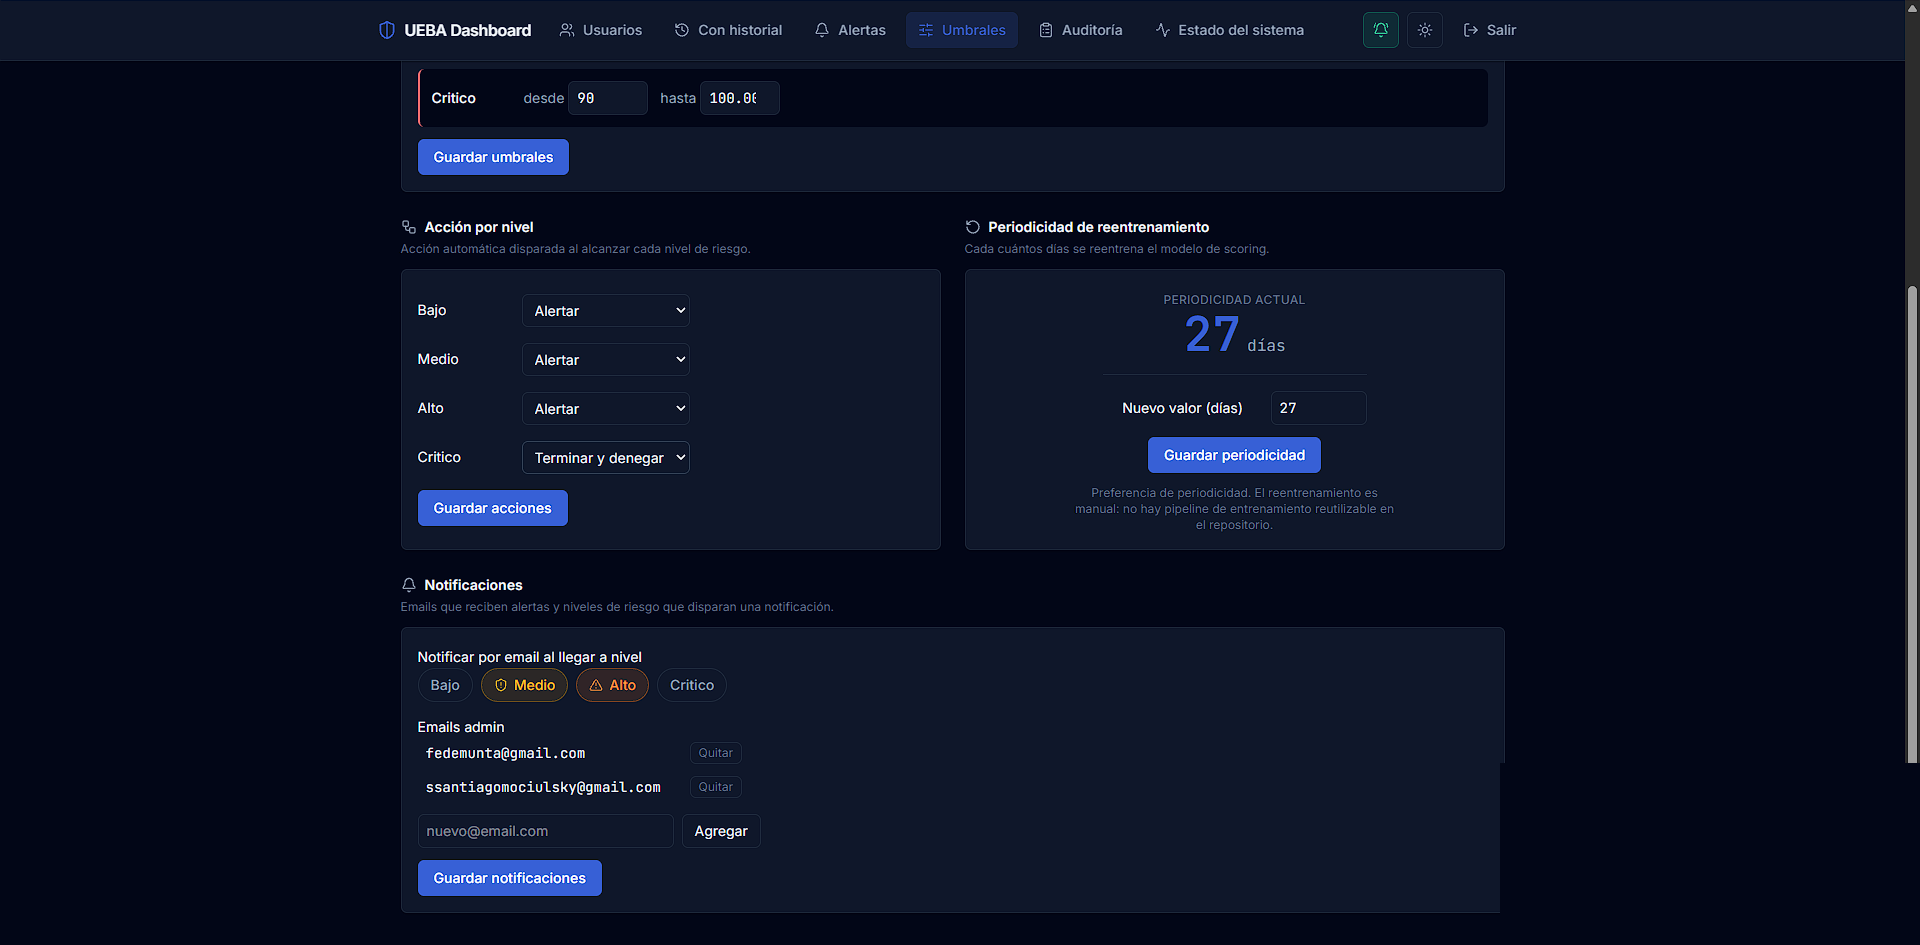
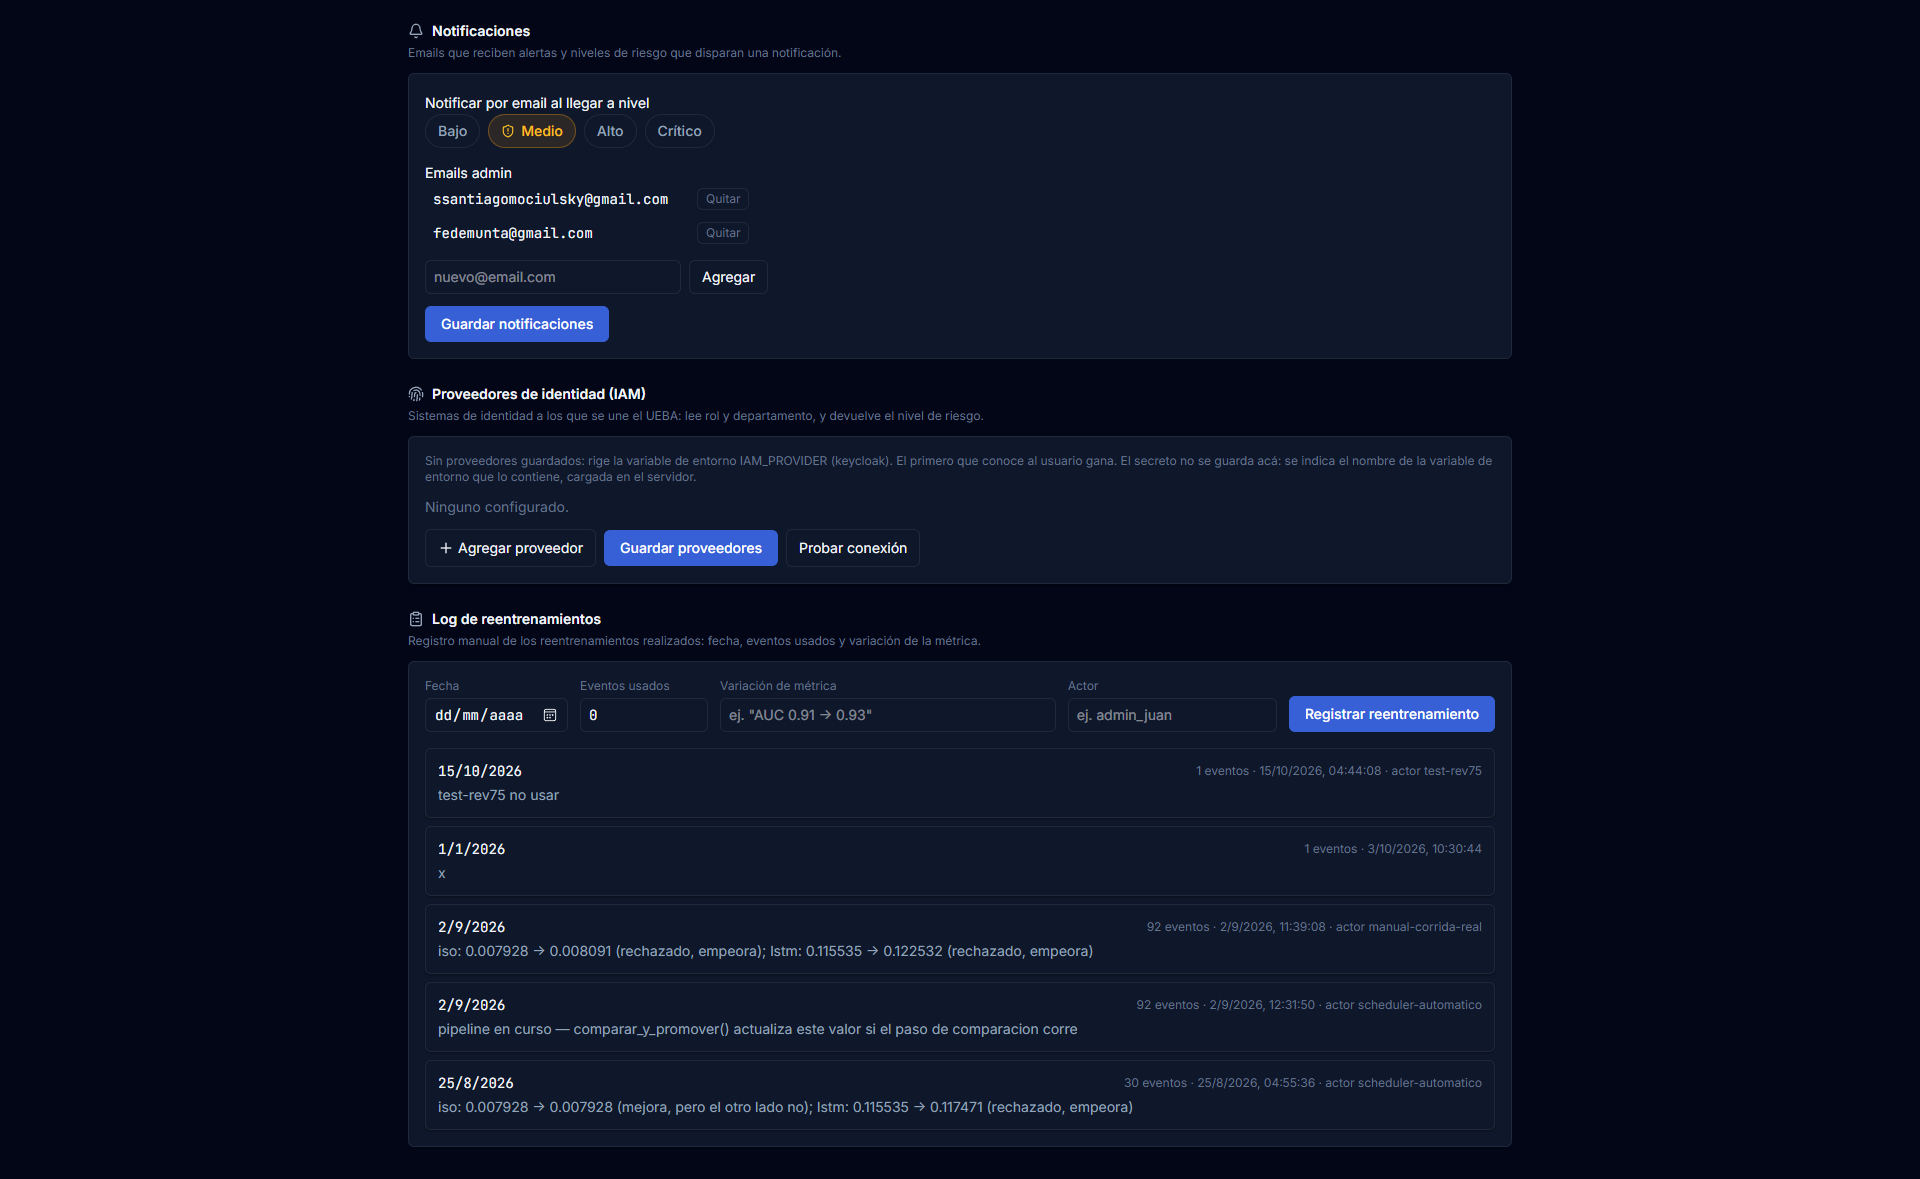
docs: recaptura de pantallas del dashboard UMBRAL y ajuste del texto

diff --git a/chapters/e50_diseno_ux.tex b/chapters/e50_diseno_ux.tex
@@ -18,7 +18,7 @@ Cada \emph{wireframe} de este documento representa la estructura de esa pantalla
 \end{itemize}
 
 \section{Arquitectura de navegación}
-Todas las pantallas comparten una barra superior fija con: el nombre del sistema, 6 accesos directos a las secciones (Usuarios, Con historial, Alertas, Umbrales, Auditoría, Estado del sistema), un indicador de alertas activas y un selector de tema claro/oscuro. Esta estructura común reduce la carga cognitiva del administrador al moverse entre las distintas vistas operativas: es la misma decisión de \emph{layout} en las 6 pantallas, solo cambia el contenido central.
+Todas las pantallas comparten una barra superior fija con: el nombre del sistema, 6 accesos directos a las secciones (Usuarios, Con historial, Alertas, Umbrales, Auditoría, Estado del sistema), el logotipo de UMBRAL, un indicador de alertas activas, un selector de tema claro/oscuro y el botón para cerrar sesión. Esta estructura común reduce la carga cognitiva del administrador al moverse entre las distintas vistas operativas: es la misma decisión de \emph{layout} en las 6 pantallas, solo cambia el contenido central.
 
 \section{Catálogo de pantallas}
 Para cada pantalla se presenta el \emph{wireframe} estructural de baja fidelidad, la captura real del \emph{frontend} implementado, y una tabla de justificación de diseño que ata cada decisión visual a un requerimiento funcional, no funcional o caso de uso concreto. Las tablas~\ref{tab:mockup-login} a~\ref{tab:mockup-historial} contienen esas justificaciones.
@@ -143,7 +143,7 @@ La tabla de Eventos recientes está acotada a 20 filas (RF-09) y se aclara que e
 \FloatBarrier
 
 \subsection{Alertas}
-Subconjunto operativo del listado de usuarios: solo los que están en nivel alto o crítico en este momento, pensado para uso durante un incidente activo (no requiere filtrar manualmente el listado completo). El texto bajo el título explicita una limitación de diseño consciente y comunicada al usuario del sistema: no hay historial persistente de alertas ni notificaciones \emph{push}: ``reconocer'' solo oculta el resaltado durante la sesión del navegador. La captura muestra el estado vacío, que es el estado normal del sistema en operación sana. La figura~\ref{fig:mockup-alertas-wireframe} presenta el \emph{wireframe} de la pantalla y la figura~\ref{fig:mockup-alertas-real}, la pantalla implementada.
+Subconjunto operativo del listado de usuarios: solo los que están en nivel alto o crítico en este momento, pensado para uso durante un incidente activo (no requiere filtrar manualmente el listado completo). El texto bajo el título explicita una limitación de diseño consciente y comunicada al usuario del sistema: no hay historial persistente de alertas ni notificaciones \emph{push}: ``reconocer'' solo oculta el resaltado durante la sesión del navegador. La captura muestra la lista con usuarios en nivel alto y crítico, cada uno con su botón de reconocimiento; cuando no hay ninguno, la pantalla pasa a un estado vacío explícito (``Sin alertas activas''), que es el estado normal del sistema en operación sana. La figura~\ref{fig:mockup-alertas-wireframe} presenta el \emph{wireframe} de la pantalla y la figura~\ref{fig:mockup-alertas-real}, la pantalla implementada.
 
 \begin{figure}[t]
 	\centering
@@ -153,7 +153,7 @@ Subconjunto operativo del listado de usuarios: solo los que están en nivel alto
 	{\small Fuente: elaboración propia.\par}
 	\bigskip
 	\includegraphics[width=0.8\textwidth]{images/mockups/mockup-alertas-real.png}
-	\caption{Pantalla real: \texttt{/alertas} (estado vacío)}
+	\caption{Pantalla real: \texttt{/alertas} (con alertas activas)}
 	\label{fig:mockup-alertas-real}
 	{\small Fuente: elaboración propia, captura del sistema.\par}
 \end{figure}
@@ -178,7 +178,7 @@ Subconjunto operativo del listado de usuarios: solo los que están en nivel alto
 \FloatBarrier
 
 \subsection{Configuración de umbrales}
-Es la pantalla de mayor densidad funcional del \emph{dashboard}: concentra los 4 sub-formularios que dan cumplimiento a CU-02 completo (RF-12 a RF-15 y RF-17; la periodicidad corresponde a RF-18). Se organiza en secciones apiladas con jerarquía clara (Umbrales por nivel arriba, luego una grilla de dos columnas con Acción por nivel y Periodicidad de reentrenamiento, y Notificaciones al final), cada una con su propio botón de guardado independiente, lo que evita que un cambio de umbral dispare accidentalmente un guardado de notificaciones.
+Es la pantalla de mayor densidad funcional del \emph{dashboard}: concentra los sub-formularios que dan cumplimiento a CU-02 completo (RF-12 a RF-15 y RF-17; la periodicidad corresponde a RF-18). Se organiza en secciones apiladas con jerarquía clara (Umbrales por nivel arriba, luego una grilla de tres columnas con Acción por nivel, Periodicidad de reentrenamiento y Umbral de aprendizaje, y a continuación Notificaciones, Proveedores de identidad (IAM) y el Log de reentrenamientos), cada una con su propio botón de guardado independiente, lo que evita que un cambio de umbral dispare accidentalmente un guardado de notificaciones.
 
 El bloque de Notificaciones usa \emph{chips} tipo \emph{toggle} (uno por nivel de riesgo) en vez de \emph{checkboxes} sueltos: permite seleccionar varios niveles a la vez con el mismo patrón visual que los \emph{badges} de riesgo del resto del sistema, en lugar de un control de formulario genérico sin relación visual con el dominio. La figura~\ref{fig:mockup-umbrales-wireframe} presenta el \emph{wireframe} de la pantalla y las figuras~\ref{fig:mockup-umbrales-real-1} y~\ref{fig:mockup-umbrales-real-2}, la pantalla implementada en su parte superior y luego de desplazarse.
 
@@ -195,7 +195,7 @@ El bloque de Notificaciones usa \emph{chips} tipo \emph{toggle} (uno por nivel d
 	{\small Fuente: elaboración propia, captura del sistema.\par}
 	\bigskip
 	\includegraphics[width=0.68\textwidth]{images/mockups/mockup-umbrales-real-2.png}
-	\caption{Pantalla real: \texttt{/umbrales} (scroll: acciones, periodicidad y notificaciones)}
+	\caption{Pantalla real: \texttt{/umbrales} (scroll: notificaciones, proveedores de identidad y log de reentrenamientos)}
 	\label{fig:mockup-umbrales-real-2}
 	{\small Fuente: elaboración propia, captura del sistema.\par}
 \end{figure}
@@ -292,7 +292,7 @@ Pantalla de verificación técnica: expone el resultado de \texttt{/health} de l
 \FloatBarrier
 
 \subsection{Con historial}
-Filtra el listado de usuarios a los que ya tienen al menos un día cerrado en \texttt{historial\_scores} (Postgres), como acceso rápido a usuarios con evolución temporal registrada. Es una vista deliberadamente angosta (una sola columna, UID) frente al listado general de Usuarios: no repite \emph{score}/nivel/acción porque esos datos ya cambiaron desde que se cerró ese día: mostrarlos aquí induciría a leerlos como estado actual cuando son historial. El texto bajo el título aclara explícitamente que esta lista (Postgres) puede diferir del listado operacional (Redis): un \texttt{uid} reseteado en Redis conserva igual su historial aquí, y esa distinción se declara en la propia pantalla en lugar de dejarla implícita. La figura~\ref{fig:mockup-historial-wireframe} presenta el \emph{wireframe} de la pantalla y la figura~\ref{fig:mockup-historial-real}, la pantalla implementada.
+Filtra el listado de usuarios a los que ya tienen al menos un día cerrado en \texttt{historial\_scores} (Postgres), como acceso rápido a usuarios con evolución temporal registrada. Es una vista deliberadamente angosta (una grilla de accesos que muestra solo el UID) frente al listado general de Usuarios: no repite \emph{score}/nivel/acción porque esos datos ya cambiaron desde que se cerró ese día: mostrarlos aquí induciría a leerlos como estado actual cuando son historial. El texto bajo el título aclara explícitamente que esta lista (Postgres) puede diferir del listado operacional (Redis): un \texttt{uid} reseteado en Redis conserva igual su historial aquí, y esa distinción se declara en la propia pantalla en lugar de dejarla implícita. La figura~\ref{fig:mockup-historial-wireframe} presenta el \emph{wireframe} de la pantalla y la figura~\ref{fig:mockup-historial-real}, la pantalla implementada.
 
 \begin{figure}[t]
 	\centering
